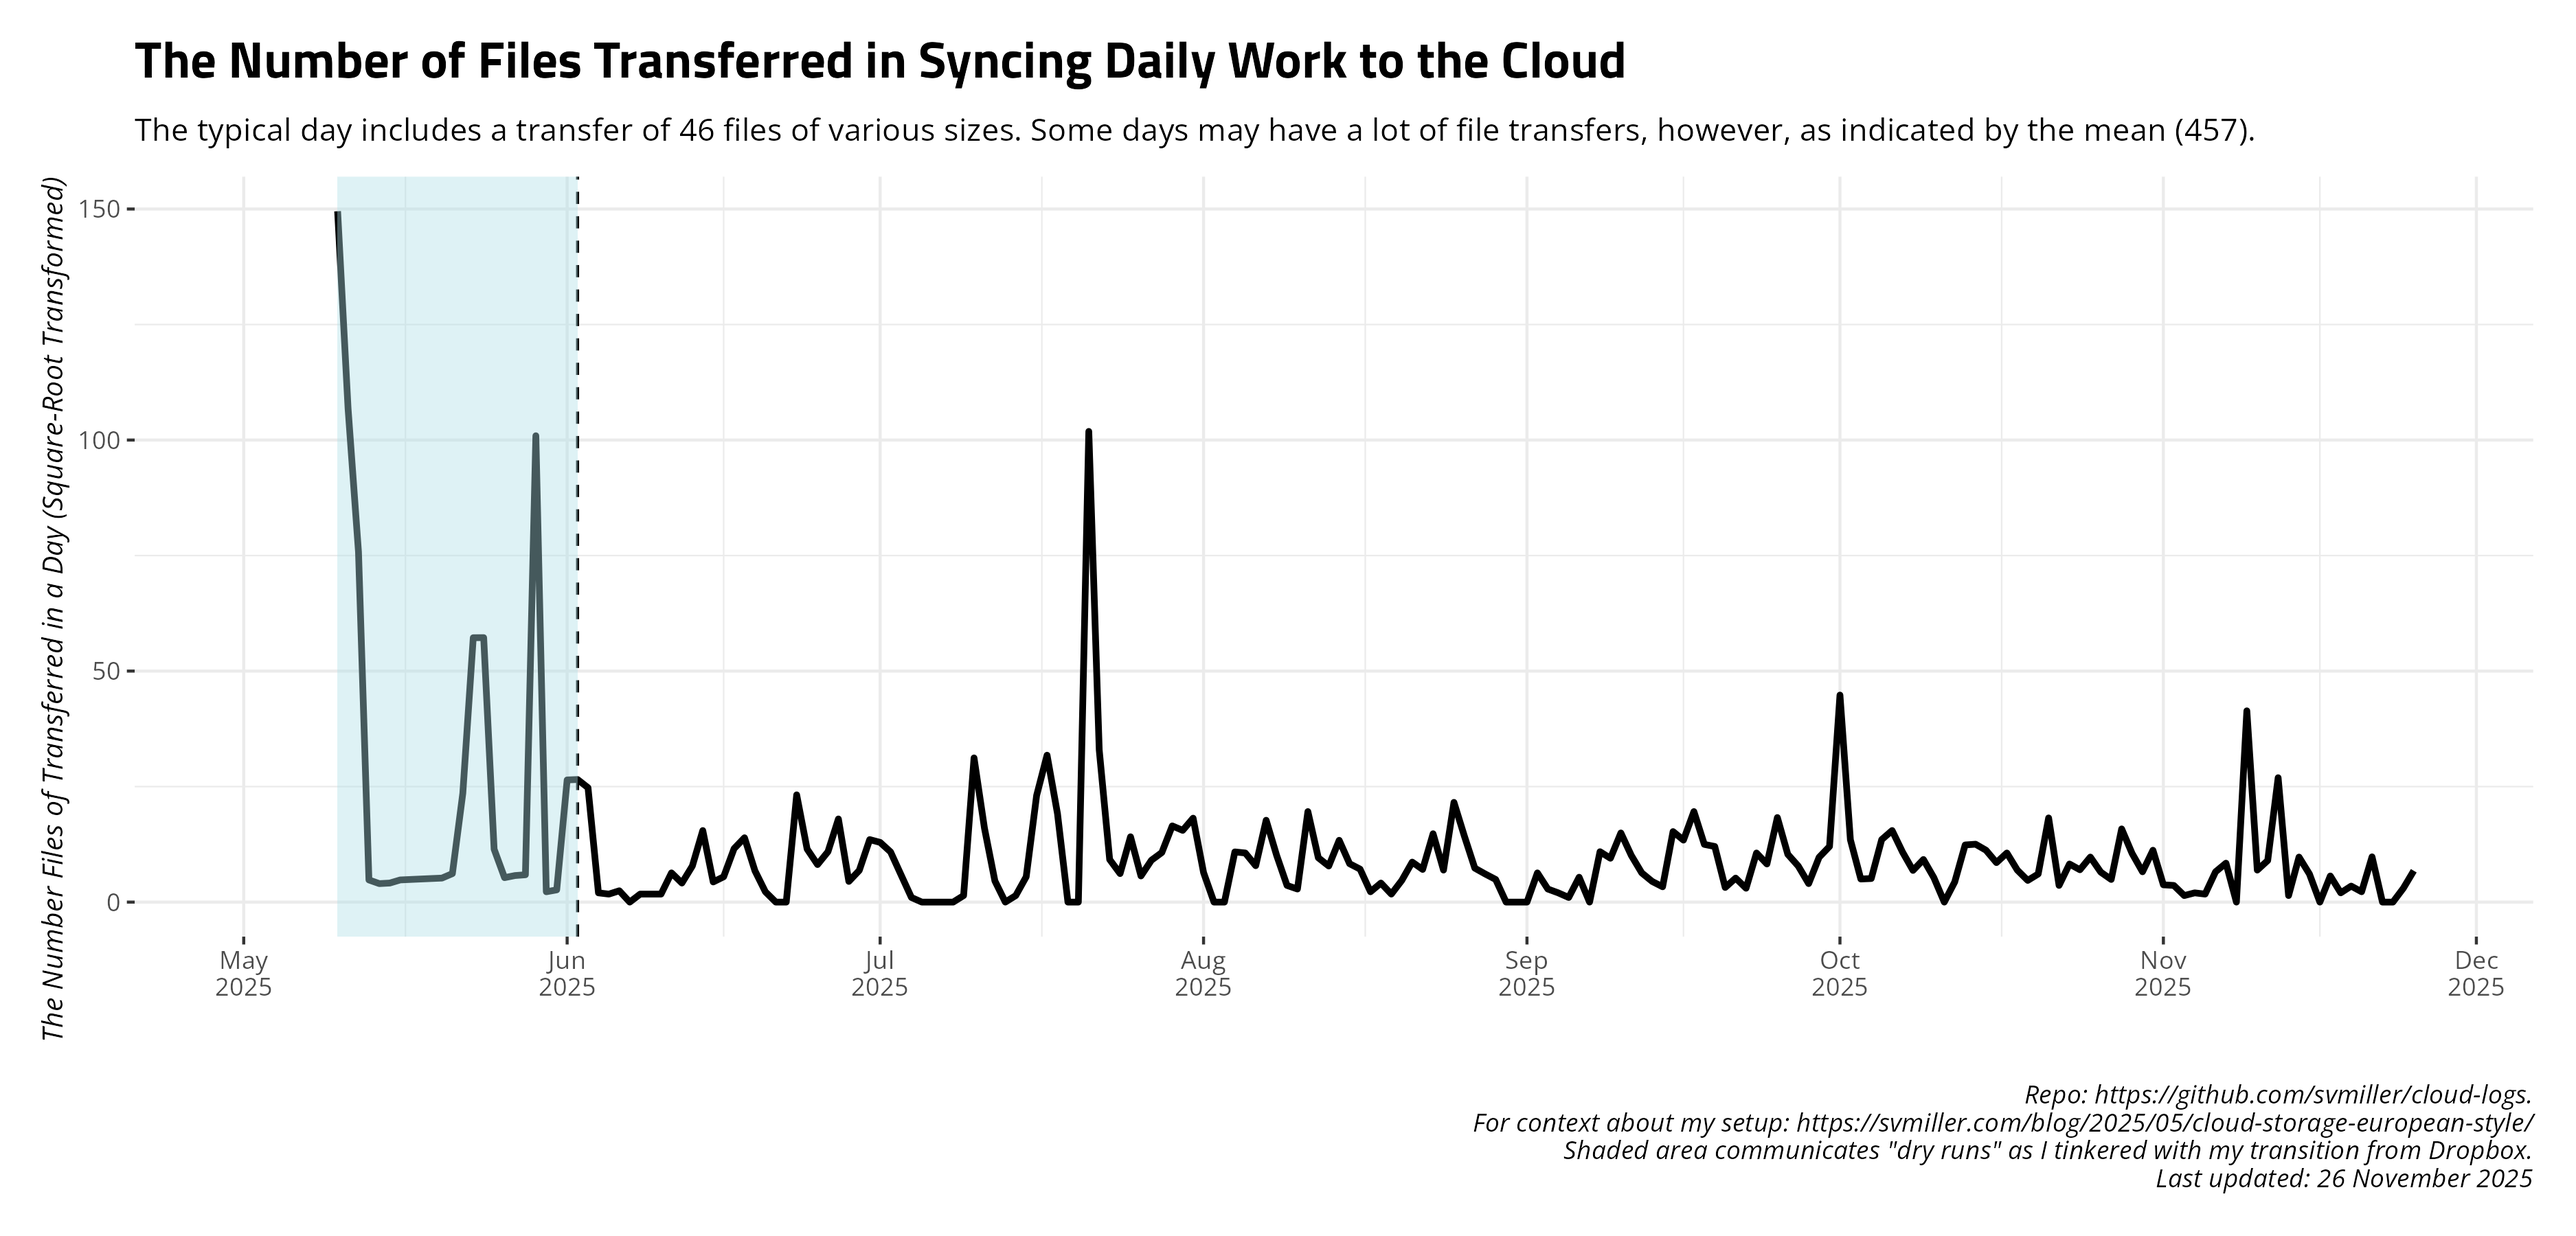
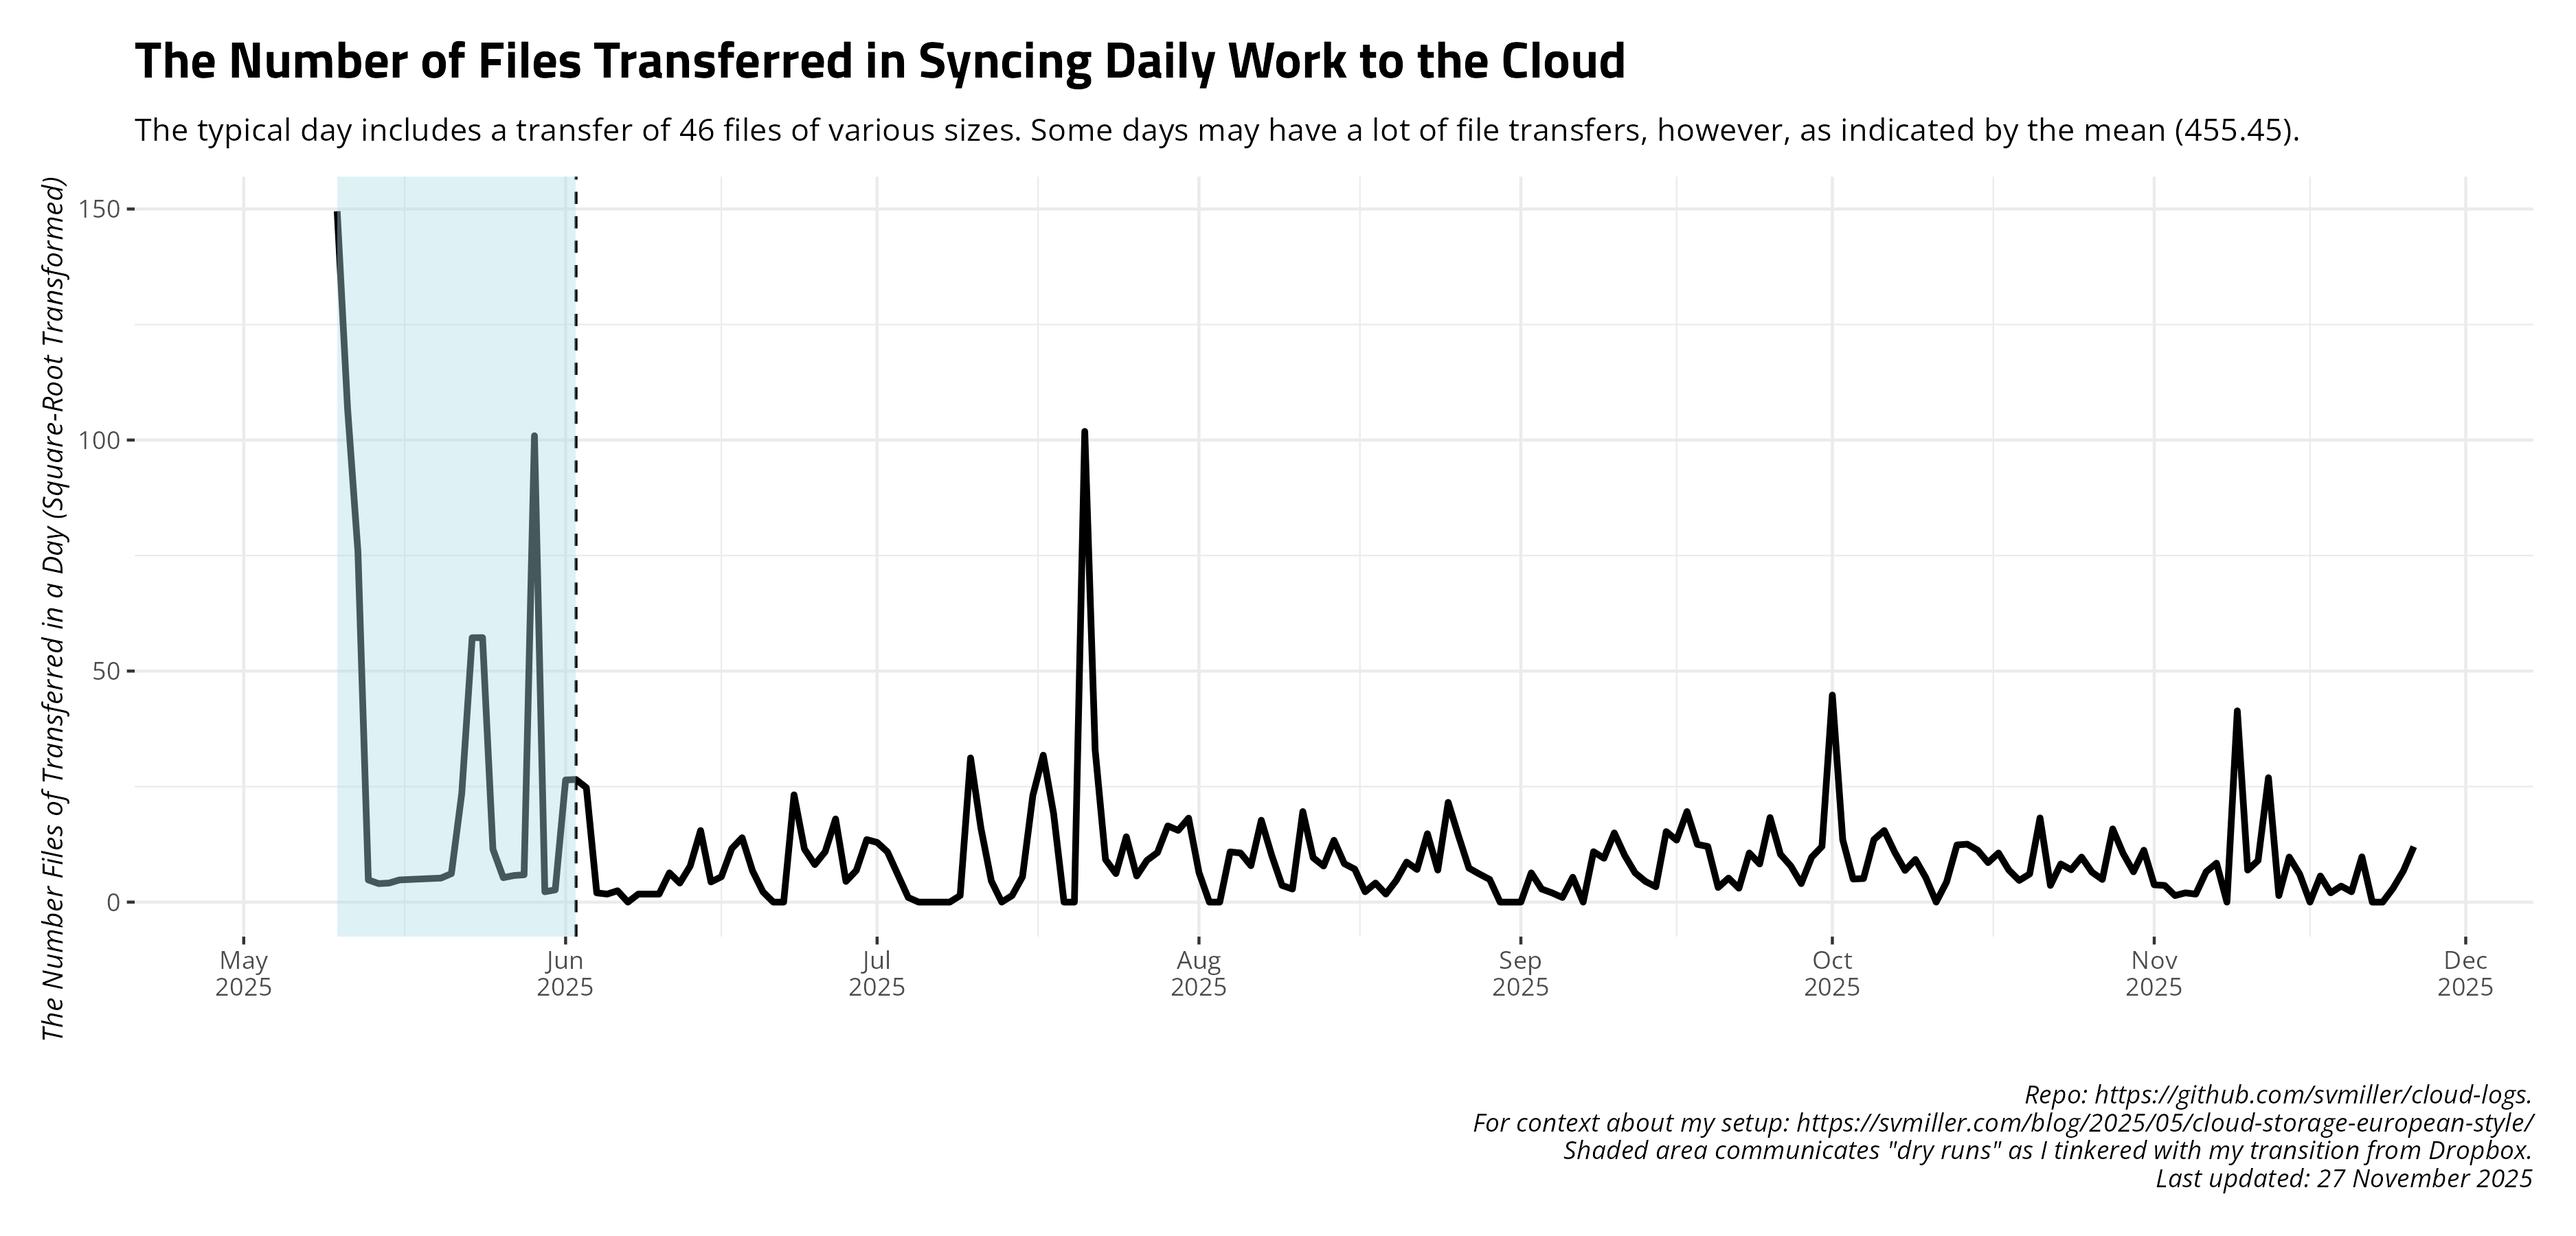
Date: 2025-11-27 09:00:18. Hi mom!

diff --git a/README.md b/README.md
@@ -27,17 +27,17 @@ and uploads to Github.
     #> # A tibble: 14 × 4
     #>    date       ftransfer stransfer   elapsed
     #>    <date>         <dbl> <chr>       <chr>  
-    #>  1 2025-11-12       725 18.854 MiB  5m33.3s
-    #>  2 2025-11-13         2 1.737 MiB   7m23.6s
-    #>  3 2025-11-14        95 1.137 MiB   4m44.7s
-    #>  4 2025-11-15        37 820.913 KiB 4m56.9s
-    #>  5 2025-11-16         0 <NA>        4m59.2s
-    #>  6 2025-11-17        32 359.220 KiB 4m54.7s
-    #>  7 2025-11-18         4 1.671 MiB   4m58.9s
-    #>  8 2025-11-19        12 3.454 MiB   4m58.5s
-    #>  9 2025-11-20         5 289.079 KiB 4m51.0s
-    #> 10 2025-11-21        96 19.696 MiB  4m13.3s
-    #> 11 2025-11-22         0 <NA>        4m57.3s
-    #> 12 2025-11-23         0 <NA>        4m58.4s
-    #> 13 2025-11-24         9 381.388 KiB 4m58.9s
-    #> 14 2025-11-25        46 877.675 KiB 4m57.2s
+    #>  1 2025-11-13         2 1.737 MiB   7m23.6s
+    #>  2 2025-11-14        95 1.137 MiB   4m44.7s
+    #>  3 2025-11-15        37 820.913 KiB 4m56.9s
+    #>  4 2025-11-16         0 <NA>        4m59.2s
+    #>  5 2025-11-17        32 359.220 KiB 4m54.7s
+    #>  6 2025-11-18         4 1.671 MiB   4m58.9s
+    #>  7 2025-11-19        12 3.454 MiB   4m58.5s
+    #>  8 2025-11-20         5 289.079 KiB 4m51.0s
+    #>  9 2025-11-21        96 19.696 MiB  4m13.3s
+    #> 10 2025-11-22         0 <NA>        4m57.3s
+    #> 11 2025-11-23         0 <NA>        4m58.4s
+    #> 12 2025-11-24         9 381.388 KiB 4m58.9s
+    #> 13 2025-11-25        46 877.675 KiB 4m57.2s
+    #> 14 2025-11-26       144 2.174 MiB   4m11.5s
